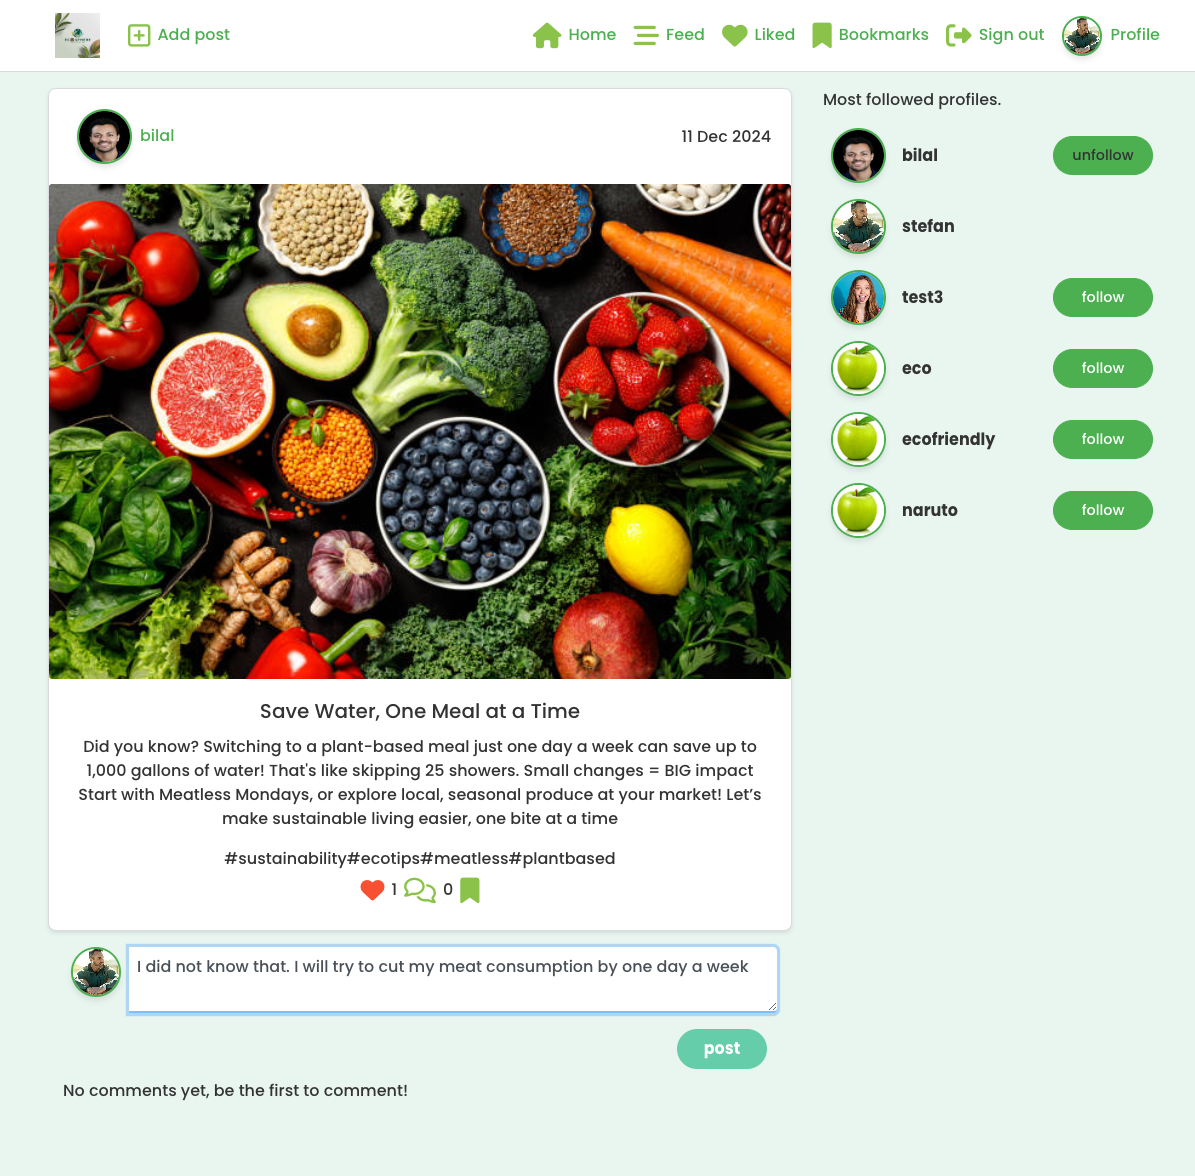
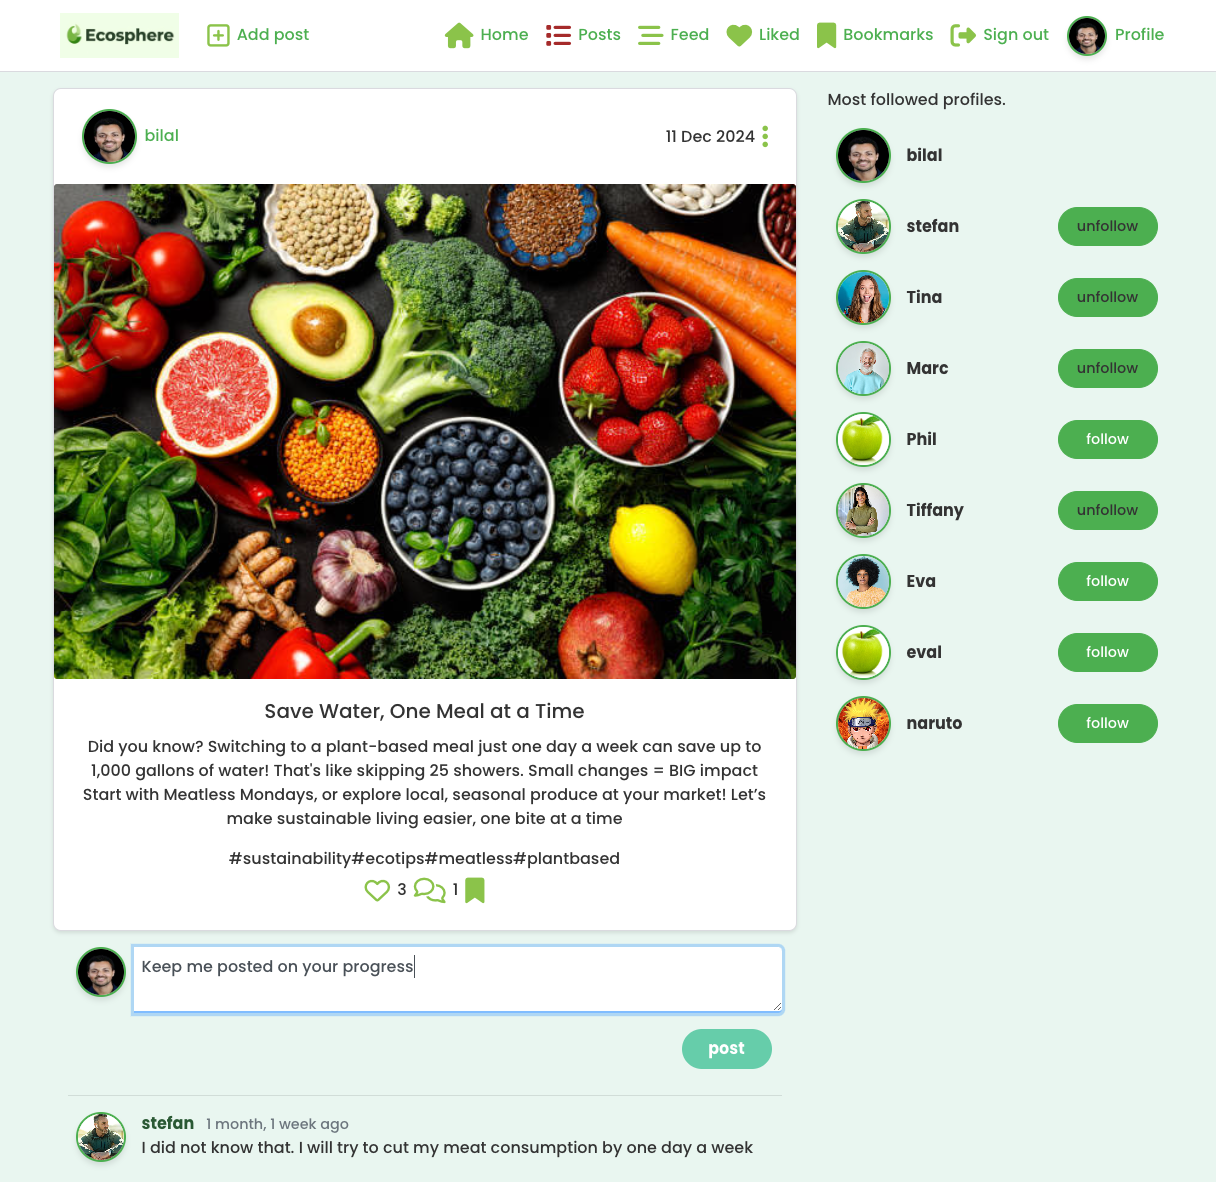
Update Features Implemented and Manual testing section of Readme file

diff --git a/public/index.html b/public/index.html
@@ -40,7 +40,7 @@
       work correctly both with client-side routing and a non-root public URL.
       Learn how to configure a non-root public URL by running `npm run build`.
     -->
-    <title>React App</title>
+    <title>Ecosphere</title>
   </head>
   <body>
     <noscript>You need to enable JavaScript to run this app.</noscript>

diff --git a/README.md b/README.md
@@ -172,8 +172,12 @@ By prioritizing user needs and following an agile methodology, I aimed to delive
 
 ## Homepage
 - Navbar: User-friendly navigation bar is present on all pages and it adapts to the user's authentication status (logged in or not.) Logged-in users have access to Post, like, comment, follow, bookmark and profile features. 
-- Home Page: Displays recent posts, popular profiles, number of likes and comments as well as a searchbar. 
-![Screenshot website design](src/assets/homepage-ecosphere.png)
+- Homepage: Welcomes users to Ecosphere and outlines the platform's purpose for sustainable living, encouraging user registration through clear feature benefits.
+![Screenshot homepage design](src/assets/welcome-page.png)
+
+## Posts
+- Posts: Displays recent posts, popular profiles, number of likes and comments as well as a searchbar. 
+![Screenshot website design](src/assets/posts.png)
 
 ## User Registration and Profile
 - Account Creation: Users can register to like posts, comment on posts, add own posts or follow members they like.
@@ -212,6 +216,10 @@ By prioritizing user needs and following an agile methodology, I aimed to delive
 ![Screenshot bookmark creation design](src/assets/bookmarks-creation.png)
 - Bookmarked Folders Feed: Allows users to access posts saved in self created folderrs
 ![Screenshot bookmark folder design](src/assets/bookmarks-folders.png)
+- Edit Bookmark Folder: Allows uers to edit folder name or delete bookmark folder
+![Screenshot bookmark folder design](src/assets/edit-bookmark.png)
+- Delete Bookmark: Allows users to delete individual bookmarks within the associated bookmark folder.
+![Screenshot bookmark folder design](src/assets/delete-bookmark.png)
 
 ## Responsive Design
 The website is mobile-friendly and responsive across all devices, optimized with Bootstrap for consistent styling.
@@ -223,7 +231,6 @@ The website is mobile-friendly and responsive across all devices, optimized with
 - Add a more custom 404 pages
 - Add self-service forgot password feature via email verification
 - Improve performance on the side by implementing stricter image sizing rules
-- Add bookmark editing functionalities to rename a bookmark or also delete it
 - Add video upload functionality to allow users to upload different types of assets
 
 # Reusable Components
@@ -254,6 +261,28 @@ The website is mobile-friendly and responsive across all devices, optimized with
 - Purpose: Handles loading states and placeholder content
 - Usage: Loading states, empty states
 
+## Home Component
+- Purpose: Landing page providing platform introduction and feature overview
+    - Features:
+        - Clear value proposition
+        - User registration incentivization
+        - Direct access to content via View Posts
+
+## BookmarkFolderModal Component
+- Purpose: Modal interface for organizing bookmarked posts
+    - Features:
+        - Folder creation functionality
+        - Folder selection for bookmarks
+        - Loading state handling
+        - Error message display
+
+## BookmarkMoreDropdown Component
+- Purpose: Manages folder and bookmark operations
+    - Features:
+        - Folder editing/deletion
+        - Bookmark removal functionality
+        - Confirmation modals
+        - Error state handling
 
 # Testing
 
@@ -297,10 +326,11 @@ The website is mobile-friendly and responsive across all devices, optimized with
 | Liked Post Feed | This was tested by clicking on Feed in the navigation bar and checking that the user ends up on the right landing page. | The user is redirected to the correct landing page where they now only see posts they liked. | Pass |
 | Create a Bookmark | This was tested by clicking on the bookmark icon below and validating that the user is being redirected to a folder creation form that allows them to create a new folder or store the post under an existing one. | The user is redirected to a folder creation form after clicking on the bookmark icon below the post, where they can create a new bookmark or store the post under an existing folder when clicking on the existing folder. | Pass |
 | Bookmark Feed | This was tested by clicking on the bookmark icon in the navigation bar and checking that the user ends up on the right bookmark folders landing page. | The user is redirected to a landing page where they can find all created folders as well as the number of posts they have saved under them. Once they click on the folder, it shows them all the bookmarked posts. | Pass |
+| Edit Bookmark Folder | This was tested by clicking on the three dots on the right of the bookmark folder and clicking on "Edift folder" or "Delete folder"  | The user is either able to change the folder name or delete the folder| Pass | 
+| Delete Bookmark | This was tested by clicking on the folder in which bookmarks wer saved and then clicking on the three dots on the right corner of the to be deleted bookmark and clicking on "Delete" | The bookmark was deleted from the bookmark folder| Pass | 
 | Manage User Profile | This was tested by logging in with a valid user account and clicking on the Profile icon in the navigation bar and checking that the user ends up on the user profile where they can edit or delete their account, change the username, and the password. | The user is able to edit the profile, like uploading a new image, changing the bio, deleting the account, changing the username, and the password. | Pass | 
 | Filter Posts with Searchbar | This was tested by logging in with a valid user account and typing in a keyword into the searchbar that is featured on the homepage, which then filters through the posts to find matches. | The user is able to add keywords to filter through the posts and only get results that contain the relevant keyword. | Pass | 
 | Logout | This was tested by clicking on the "Sign Out" button to log out from the website. | The user is redirected to the sign-in page after clicking on "Sign Out." | Pass | 
-
 
 # Bugs
 
